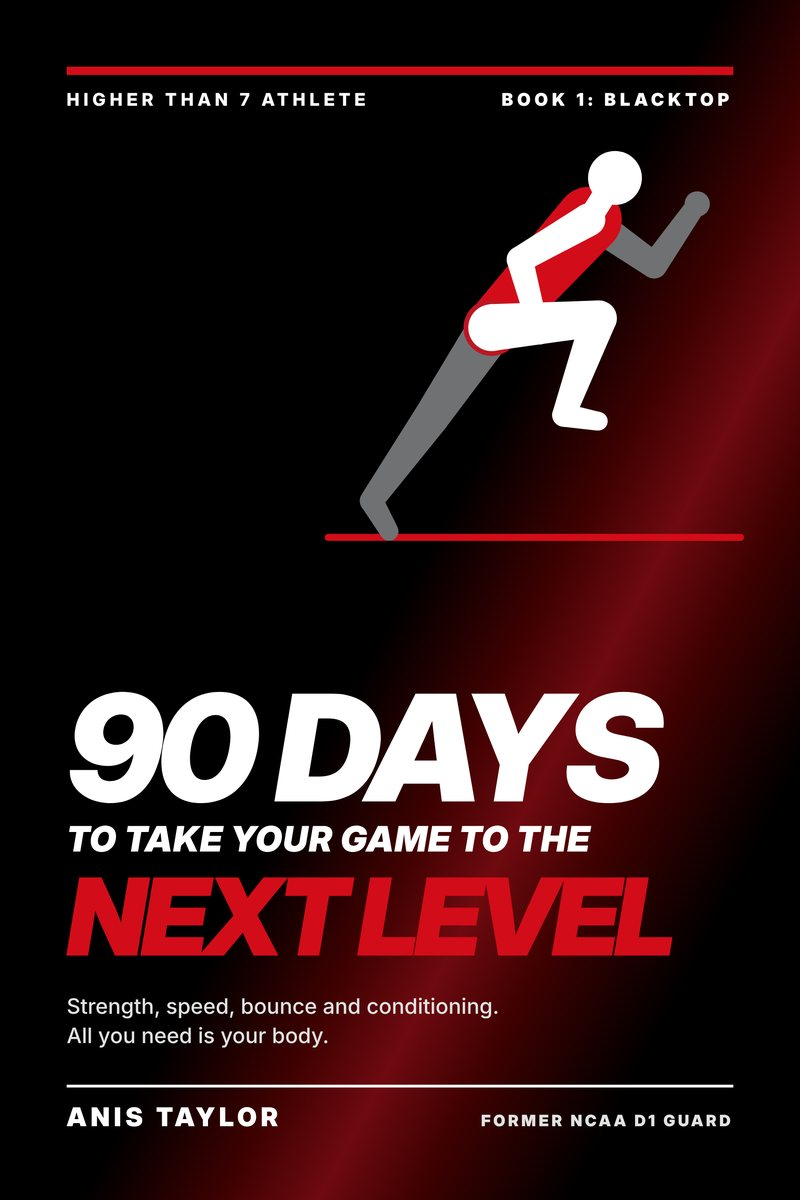
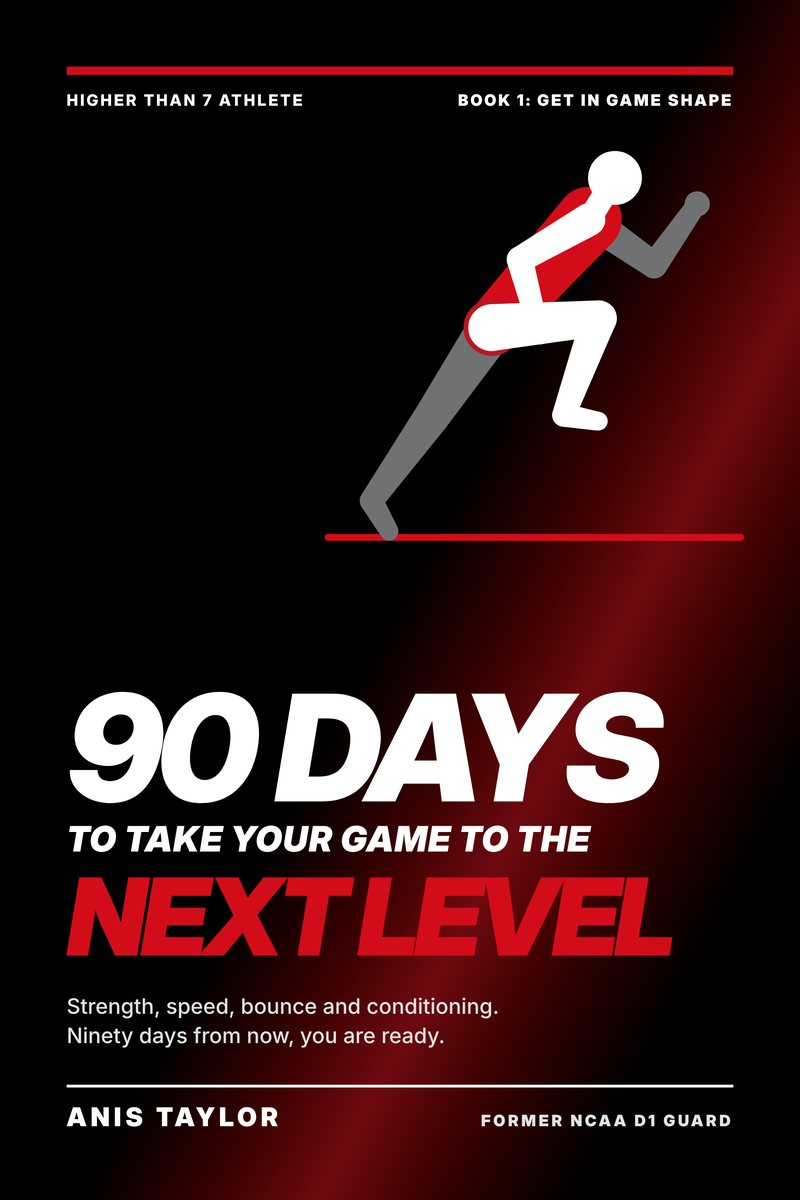
Rename Book 1 to Get in Game Shape and update cover
Claude-Session: https://claude.ai/code/session_01DZ3BQae1Cdt8HwHcpfEw7i

Changed region(s): [[0.0938, 0.8325, 0.5625, 0.8942], [0.0938, 0.0617, 0.4688, 0.0925], [0.5625, 0.0617, 0.9062, 0.0925]]

diff --git a/index.html b/index.html
@@ -515,10 +515,10 @@ form.inq input:focus-visible,form.inq select:focus-visible,form.inq textarea:foc
       <img src="book-90-days-cover.jpg" width="800" height="1200" loading="lazy" alt="Cover of 90 Days to Take Your Game to the Next Level by Anis Taylor">
       <div>
         <div class="eyebrow">Coming soon</div>
-        <h3>Book 1: Blacktop</h3>
-        <p>Blacktop is where every hooper starts: no gym, no equipment, just you and the work. Six days a week, three phases and nothing but your body. Every movement is illustrated and explained, every week is laid out, and a six-test Combine shows exactly how far you have come by Day 90.</p>
+        <h3>Book 1: Get in Game Shape</h3>
+        <p>One objective: 90 days from now, you are ready. Six days a week, three phases and nothing but your body, with a weekly road run that builds to 5 miles. Every movement is illustrated and explained, every week is laid out, and a six-test Combine shows exactly how far you have come by Day 90.</p>
         <div class="uses">
-          <span class="chip">90 days</span><span class="chip">3 phases</span><span class="chip">46 movements</span><span class="chip">No equipment</span><span class="chip">Rookie, Varsity and Pro levels</span><span class="chip">In-season plan</span><span class="chip">Full logbook</span>
+          <span class="chip">90 days</span><span class="chip">3 phases</span><span class="chip">46 movements</span><span class="chip">No equipment</span><span class="chip">Rookie, Varsity and Pro levels</span><span class="chip">In-season plan</span><span class="chip">5-mile finish</span><span class="chip">Full logbook</span>
         </div>
         <div class="btns">
           <a class="btn primary" href="#join">Get notified at launch</a>
